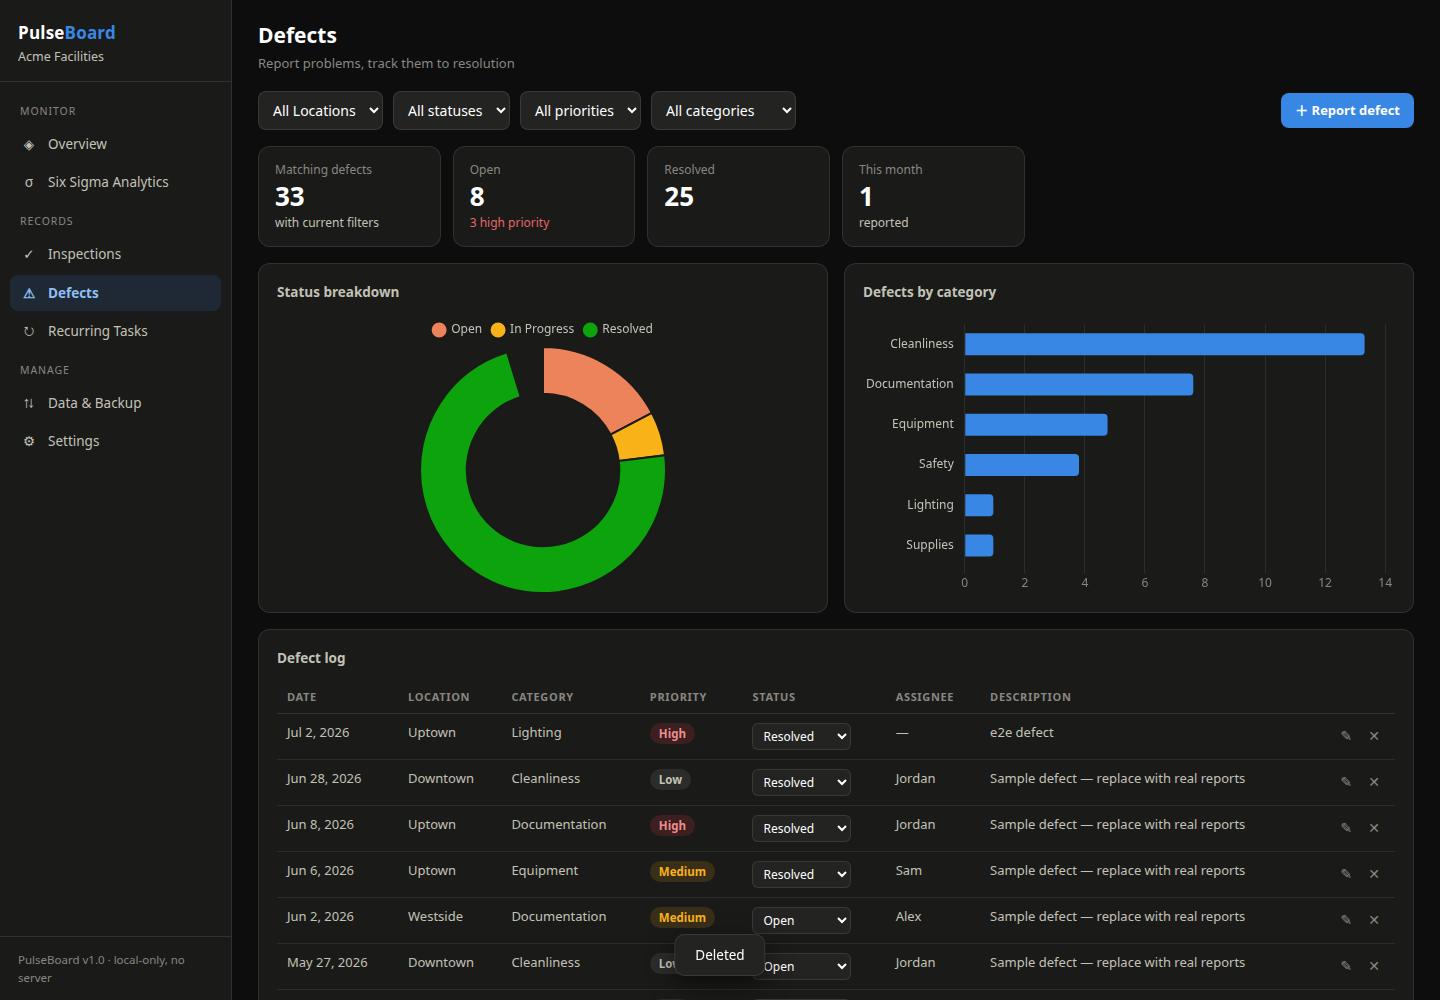
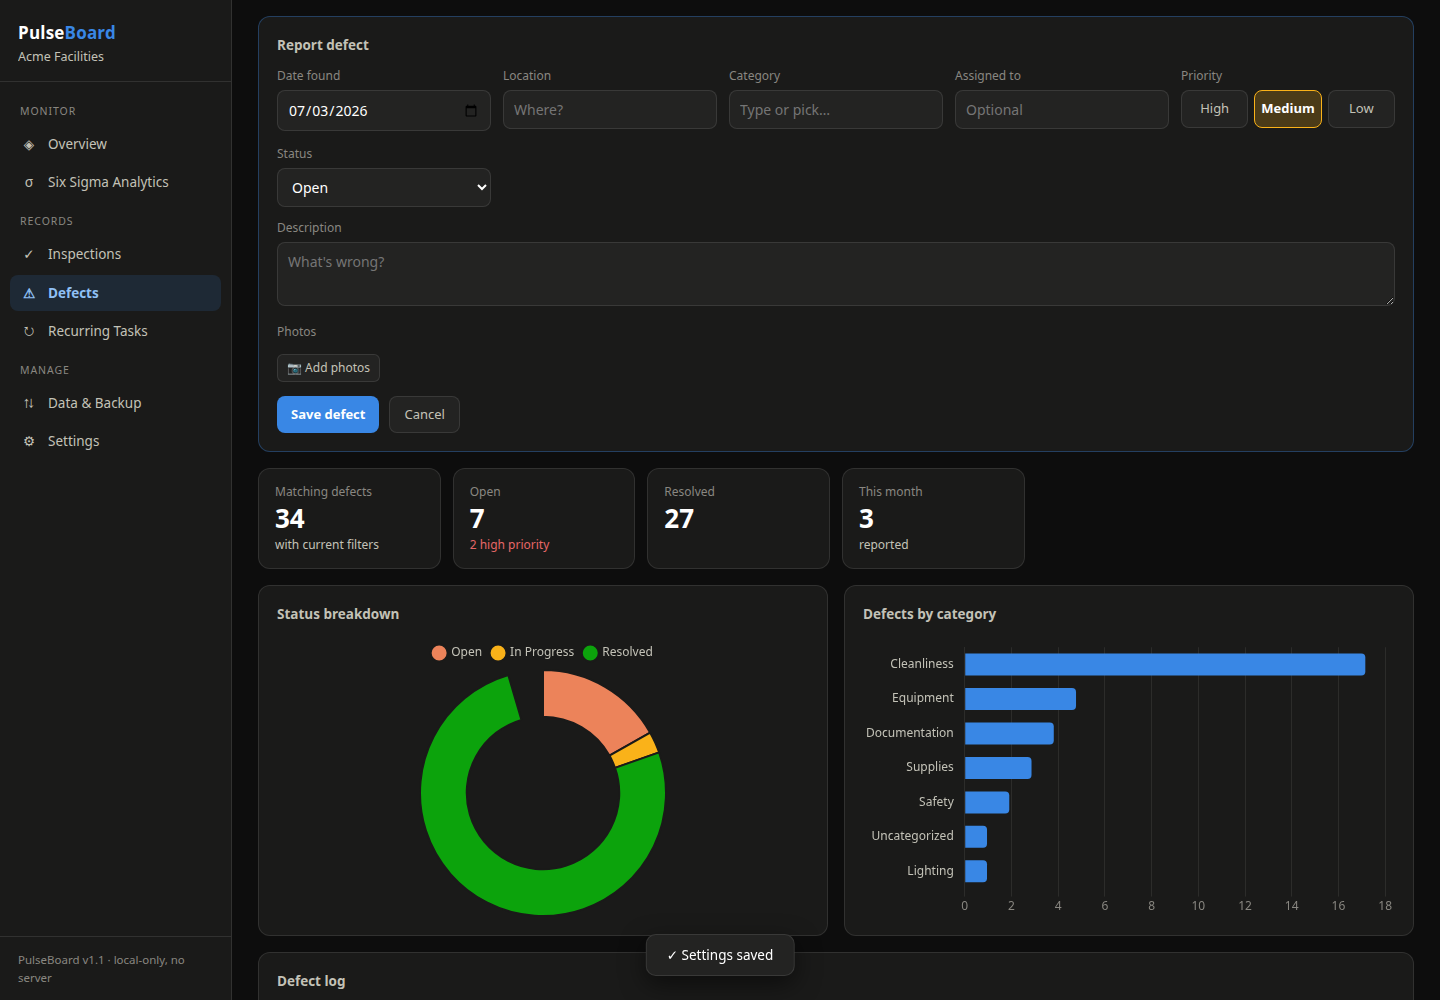
Fix deb build (homepage metadata) + docs screenshots for v1.1

diff --git a/test/shot-form.js b/test/shot-form.js
@@ -1,0 +1,47 @@
+// One-off: screenshot the defect form with a photo attached (docs/defect-form.png)
+const path = require('path');
+const fs = require('fs');
+const puppeteer = require('puppeteer-core');
+
+(async () => {
+  const browser = await puppeteer.launch({
+    executablePath: process.env.CHROME || '/usr/bin/google-chrome',
+    headless: 'new',
+    args: ['--no-sandbox', '--disable-gpu']
+  });
+  const page = await browser.newPage();
+  await page.setViewport({ width: 1440, height: 1000 });
+  await page.goto('file://' + path.resolve(__dirname, '..', 'index.html'), { waitUntil: 'networkidle0' });
+  const sleep = ms => new Promise(r => setTimeout(r, ms));
+  // finish wizard quickly with sample data
+  await page.type('#wiz-org', 'Acme Facilities');
+  await page.click('#wiz-next'); await page.click('#wiz-next');
+  await page.click('#wiz-sample');
+  await sleep(400);
+  await page.click('.nav-item[data-page="defects"]');
+  await sleep(300);
+  await page.click('#btn-def-new');
+  await page.$eval('#def-unit', el => el.value = 'North Building');
+  await page.$eval('#def-category', el => el.value = 'Safety');
+  await page.$eval('#def-notes', el => el.value = 'Loose handrail on the east stairwell — needs anchor bolts.');
+  // draw a plausible photo in-canvas and attach it via the photo pipeline
+  await page.evaluate(async () => {
+    const c = document.createElement('canvas'); c.width = 800; c.height = 600;
+    const g = c.getContext('2d');
+    const grad = g.createLinearGradient(0, 0, 800, 600);
+    grad.addColorStop(0, '#5a6472'); grad.addColorStop(1, '#2c3540');
+    g.fillStyle = grad; g.fillRect(0, 0, 800, 600);
+    g.fillStyle = '#8a949f'; g.fillRect(80, 120, 640, 40);
+    g.strokeStyle = '#c9852a'; g.lineWidth = 14;
+    g.beginPath(); g.moveTo(120, 160); g.lineTo(680, 400); g.stroke();
+    const id = uid();
+    await photoPut({ id, data: c.toDataURL('image/jpeg', 0.7), created: Date.now() });
+    photoState.def.ids.push(id); photoState.def.fresh.push(id);
+    await renderPhotoStrip('def');
+  });
+  await sleep(400);
+  fs.mkdirSync(path.resolve(__dirname, '..', 'docs'), { recursive: true });
+  await page.screenshot({ path: path.resolve(__dirname, '..', 'docs', 'defect-form.png') });
+  console.log('done');
+  await browser.close();
+})();